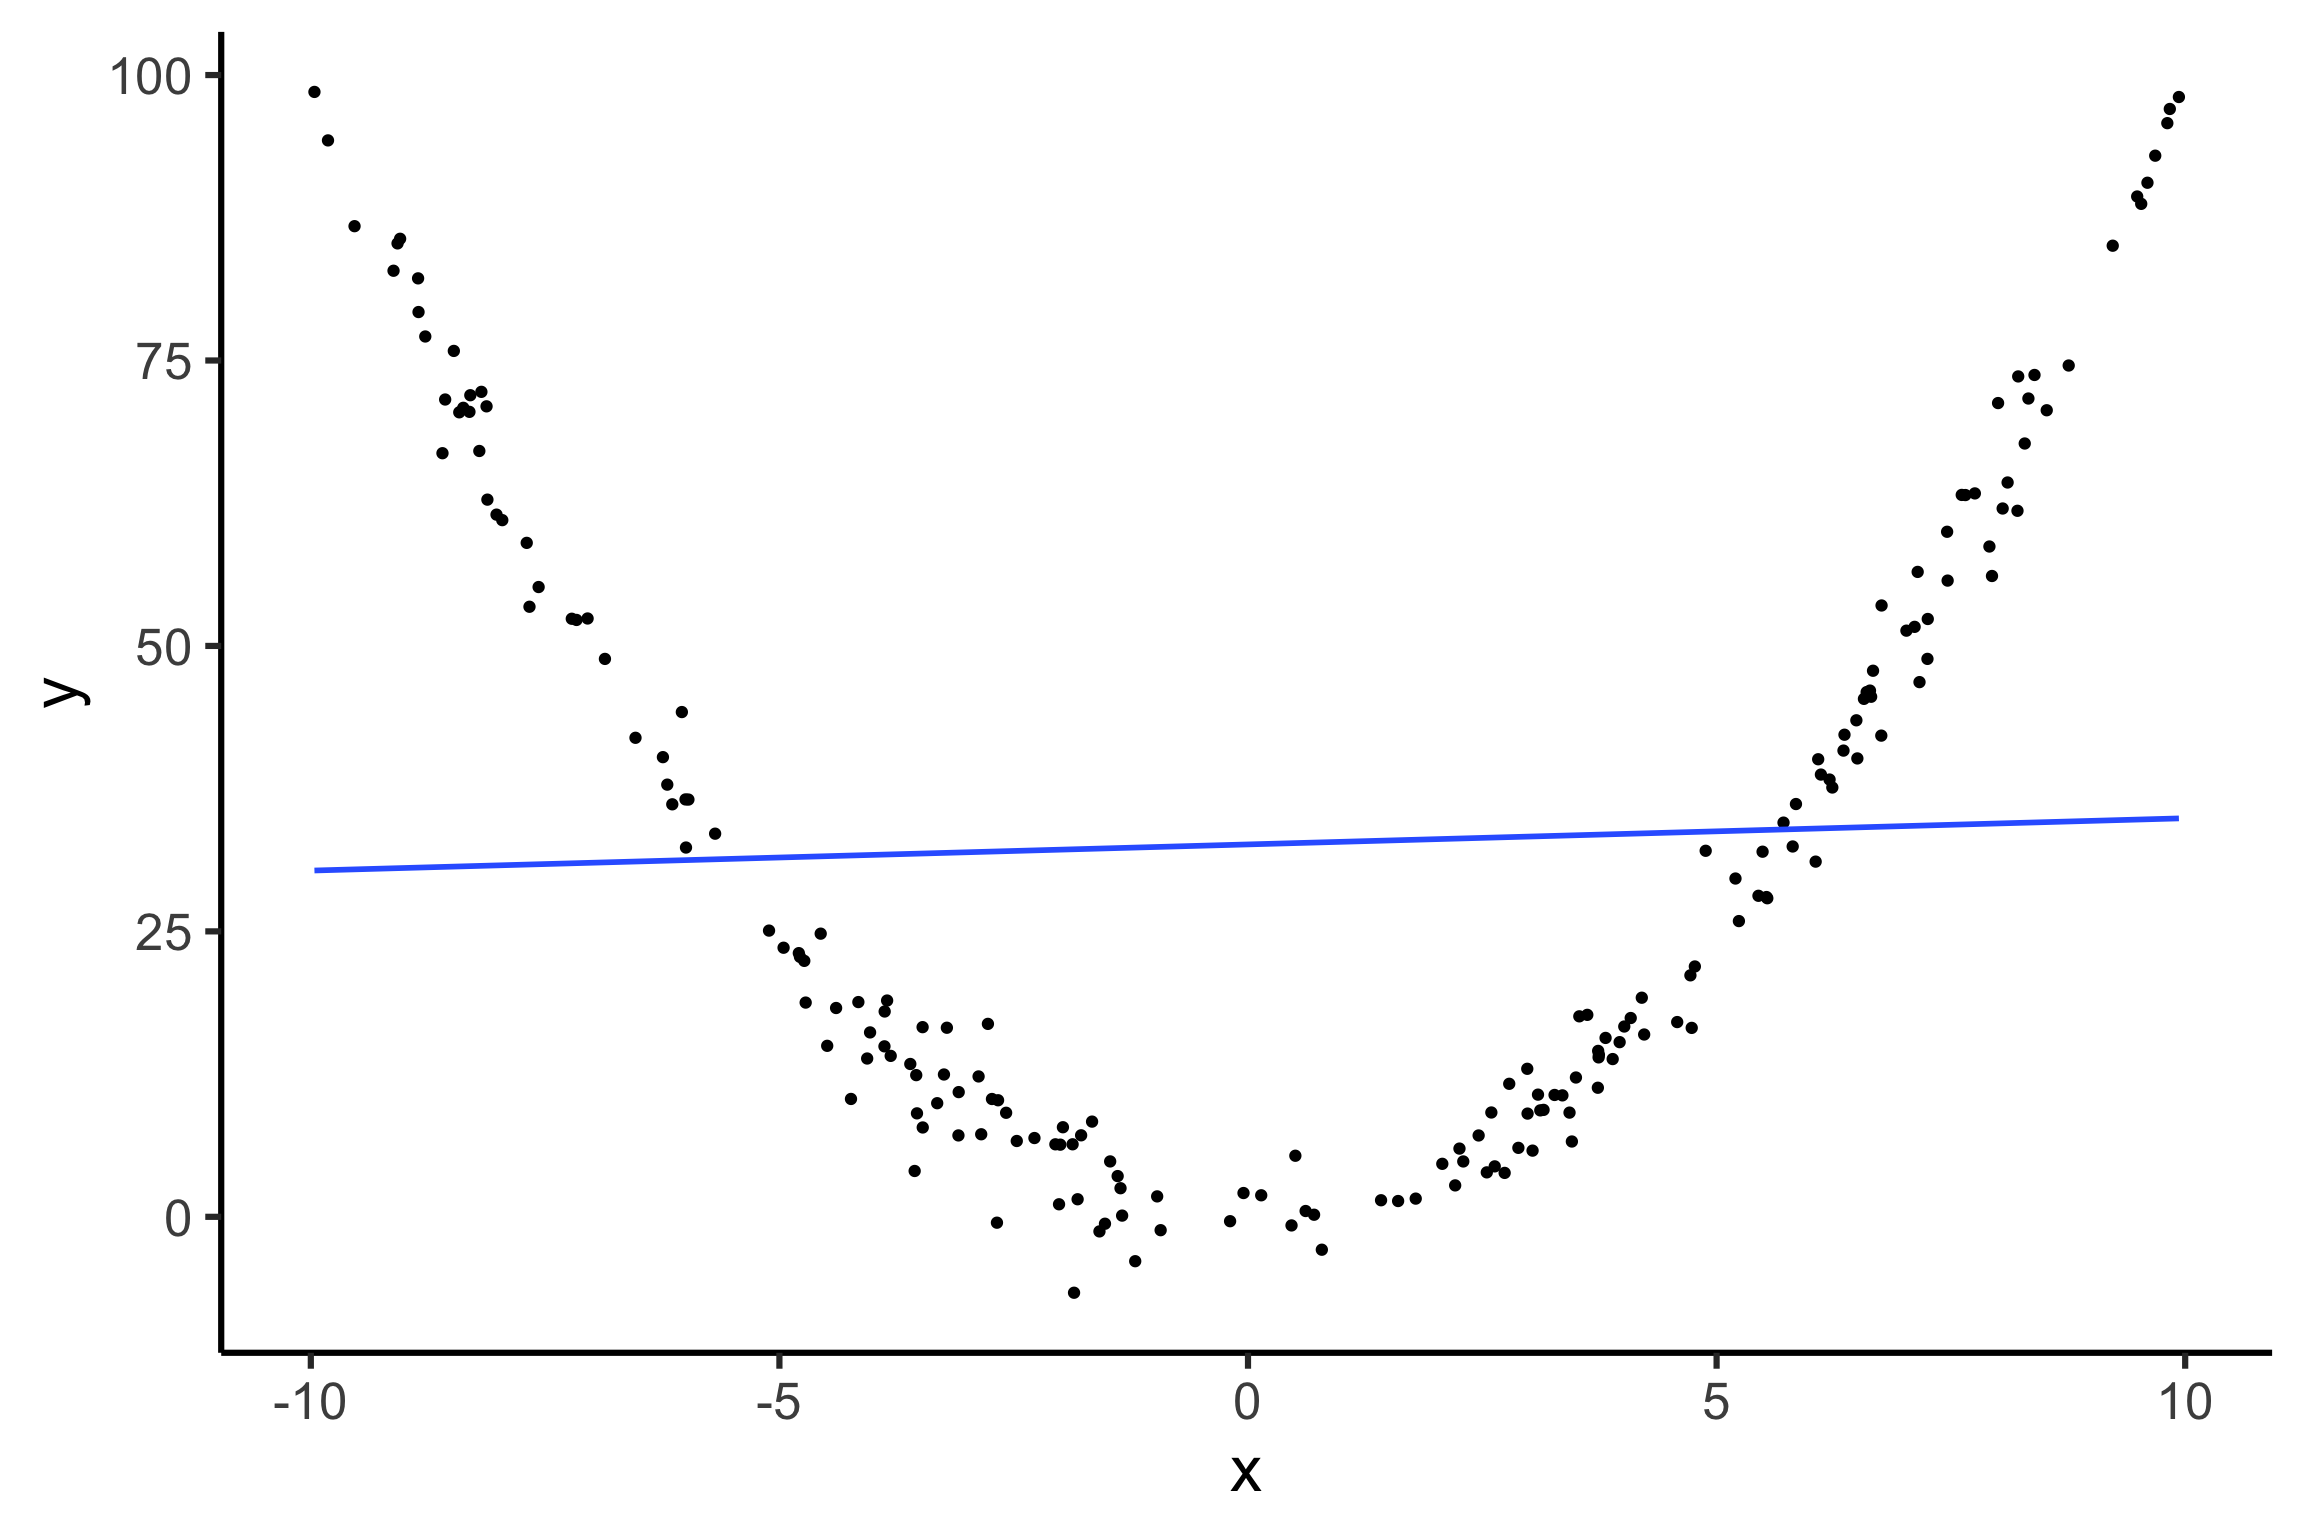
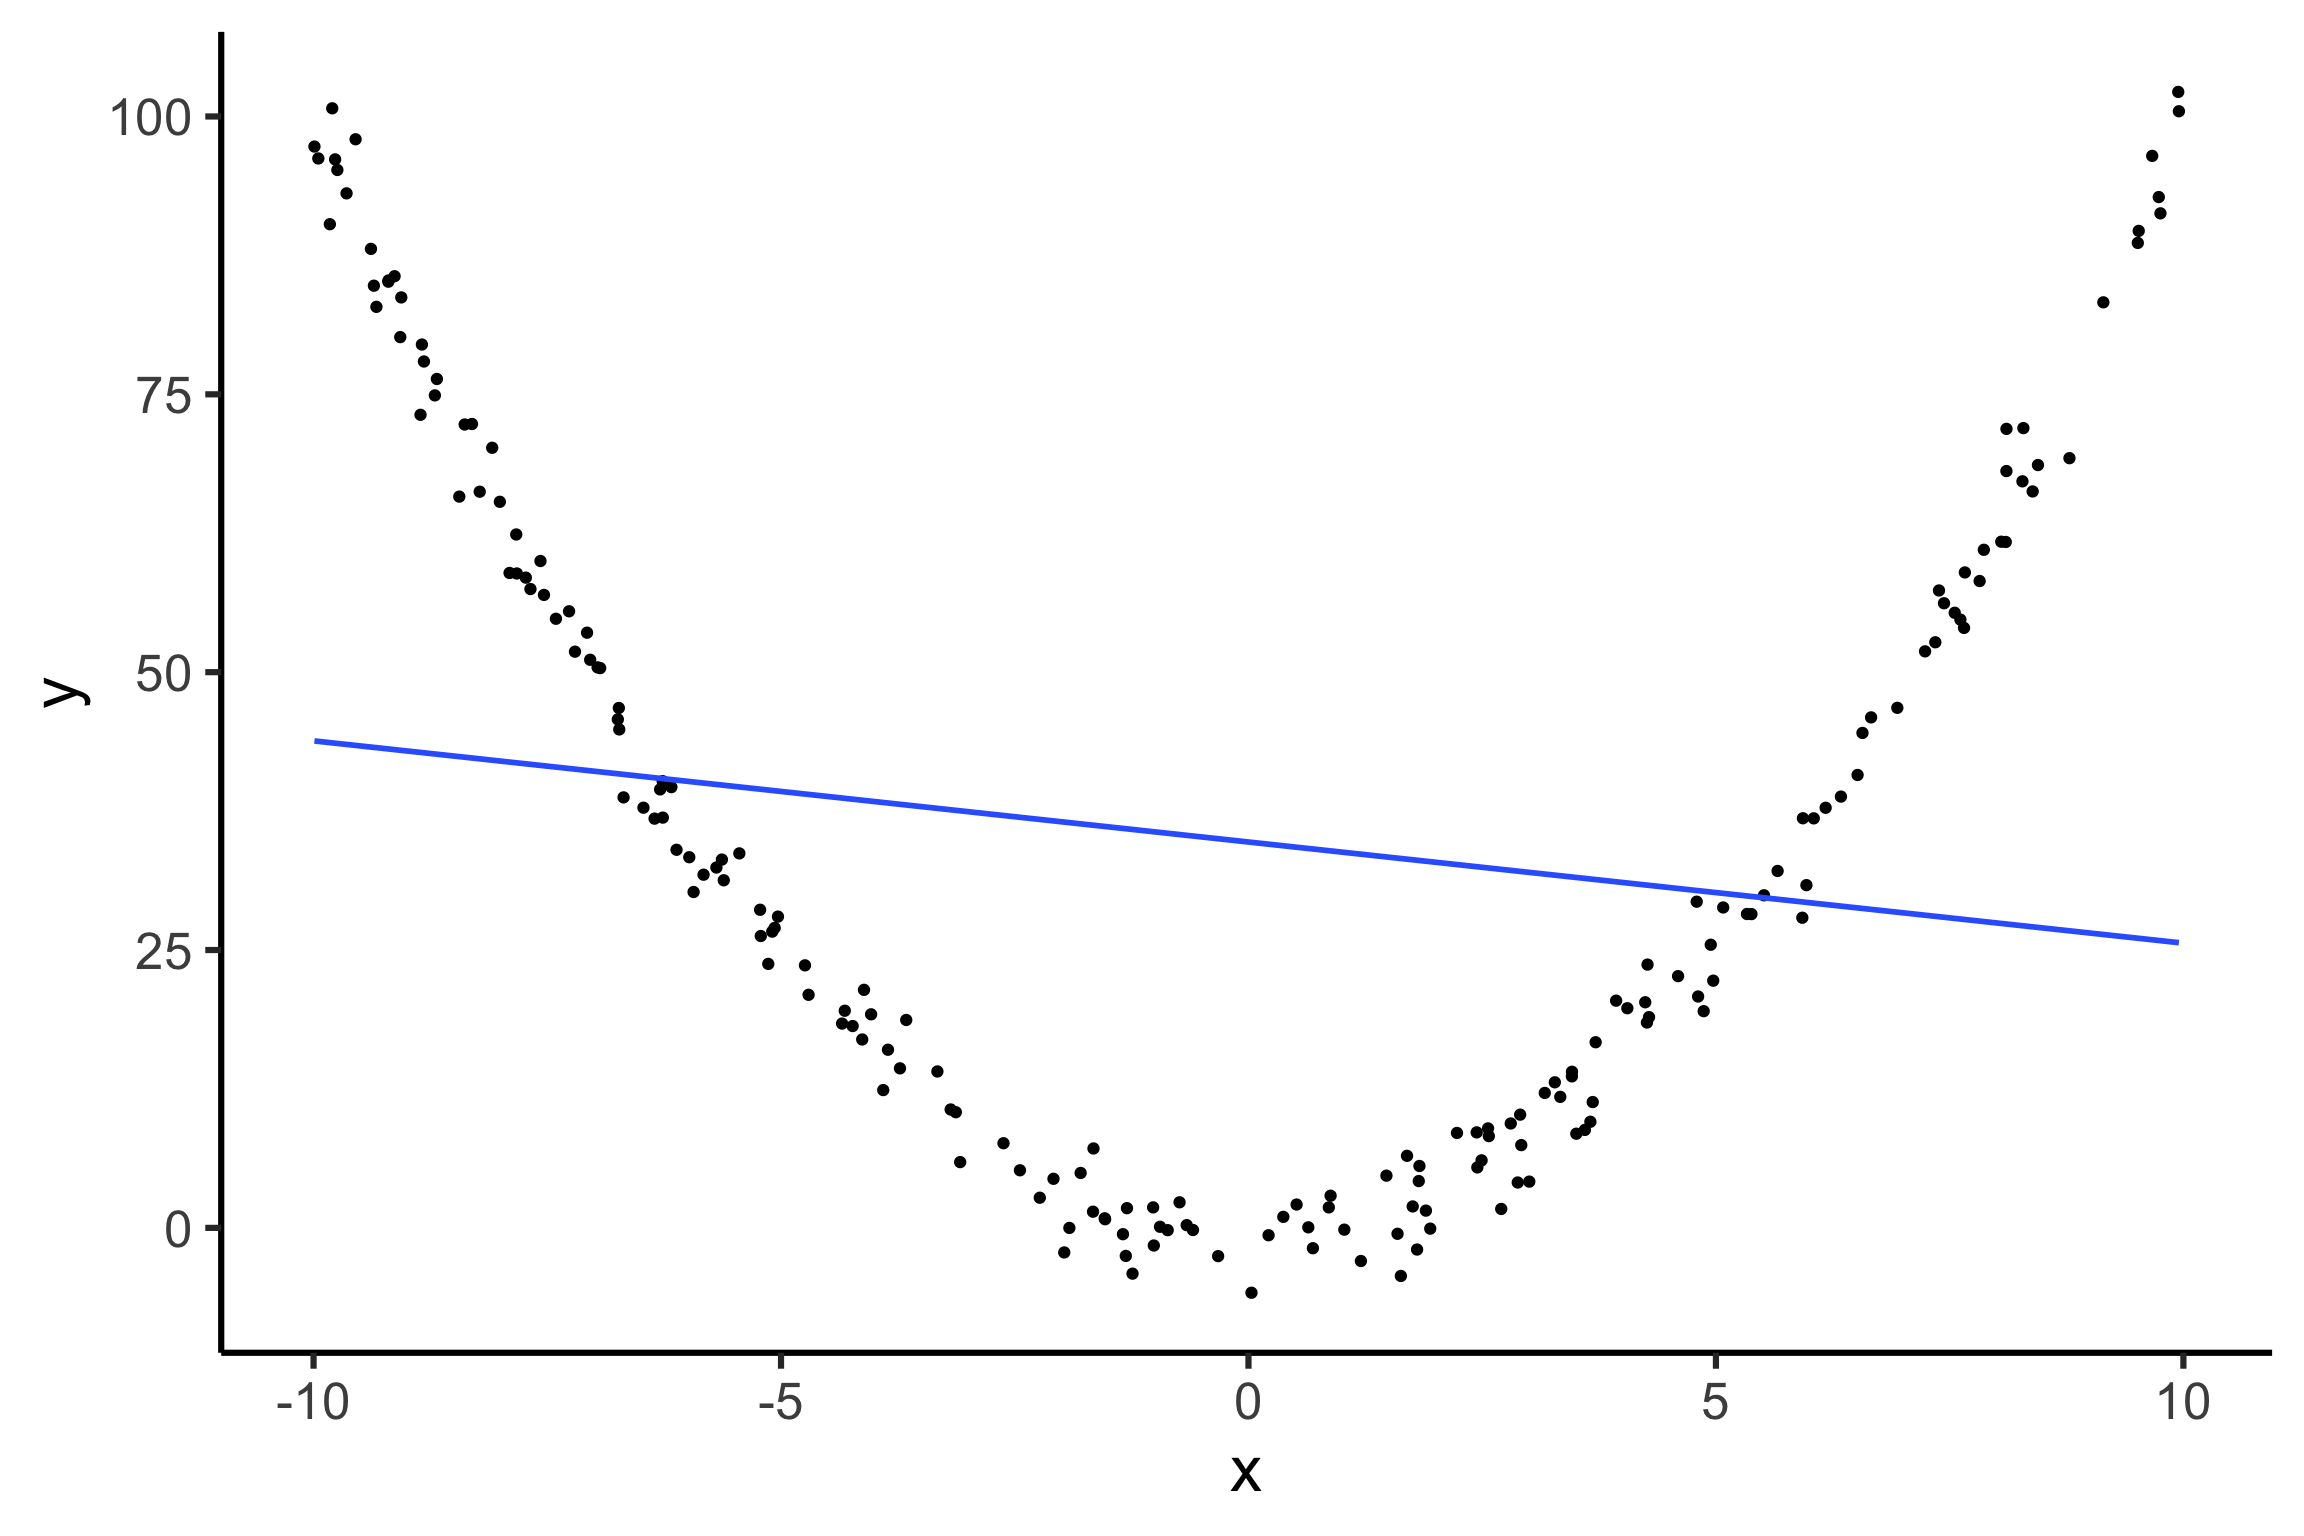
Built site for gh-pages

diff --git a/exercises/exercise02.html b/exercises/exercise02.html
@@ -420,8 +420,8 @@ eyJhdHRyIjp7ImNoZWNrIjp0cnVlLCJlZGl0Ijp0cnVlLCJldmFsIjp0cnVlLCJleGVyY2lzZSI6ImV4
 <ul>
 <li>Based on your answer to the previous question, what is the conclusion of the test using a significance level of 0.05?</li>
 </ul>
-<div id="radio_LTVDATAVAL" class="webex-radiogroup">
-<label><input type="radio" autocomplete="off" name="radio_LTVDATAVAL" value=""> <span>There is no evidence to suggest that iguanas shrink in size during the El Niño event.</span></label><label><input type="radio" autocomplete="off" name="radio_LTVDATAVAL" value=""> <span>There is evidence to suggest that iguanas grow in size during the El Niño event.</span></label><label><input type="radio" autocomplete="off" name="radio_LTVDATAVAL" value="answer"> <span>The data suggests that iguanas shrink in size during the El Niño event.</span></label>
+<div id="radio_PILHMCUZDO" class="webex-radiogroup">
+<label><input type="radio" autocomplete="off" name="radio_PILHMCUZDO" value=""> <span>There is no evidence to suggest that iguanas shrink in size during the El Niño event.</span></label><label><input type="radio" autocomplete="off" name="radio_PILHMCUZDO" value="answer"> <span>The data suggests that iguanas shrink in size during the El Niño event.</span></label><label><input type="radio" autocomplete="off" name="radio_PILHMCUZDO" value=""> <span>There is evidence to suggest that iguanas grow in size during the El Niño event.</span></label>
 </div>
 </section>
 <section id="exercise-2.1.4" class="level3">
@@ -538,8 +538,8 @@ eyJhdHRyIjp7ImNoZWNrIjp0cnVlLCJlZGl0Ijp0cnVlLCJldmFsIjp0cnVlLCJleGVyY2lzZSI6ImV4
 <ul>
 <li>Based on your answer to the previous question, what is the conclusion of the test using a significance level of 0.01?</li>
 </ul>
-<div id="radio_HMWMGKADLW" class="webex-radiogroup">
-<label><input type="radio" autocomplete="off" name="radio_HMWMGKADLW" value=""> <span>There is no evidence that the change in activation of mosquitos is different between drinking beer and water.</span></label><label><input type="radio" autocomplete="off" name="radio_HMWMGKADLW" value="answer"> <span>There is strong evidence to suggest that drinking beer attracts more mosquitos.</span></label><label><input type="radio" autocomplete="off" name="radio_HMWMGKADLW" value=""> <span>There is evidence to suggest that drinking water attracts more mosquitos.</span></label>
+<div id="radio_EERLWKOHQT" class="webex-radiogroup">
+<label><input type="radio" autocomplete="off" name="radio_EERLWKOHQT" value="answer"> <span>There is strong evidence to suggest that drinking beer attracts more mosquitos.</span></label><label><input type="radio" autocomplete="off" name="radio_EERLWKOHQT" value=""> <span>There is evidence to suggest that drinking water attracts more mosquitos.</span></label><label><input type="radio" autocomplete="off" name="radio_EERLWKOHQT" value=""> <span>There is no evidence that the change in activation of mosquitos is different between drinking beer and water.</span></label>
 </div>
 </section>
 </section>
@@ -581,12 +581,12 @@ eyJhdHRyIjp7ImNoZWNrIjp0cnVlLCJlZGl0Ijp0cnVlLCJldmFsIjp0cnVlLCJleGVyY2lzZSI6ImV4
 <ul>
 <li>Based on your answer to the previous question, what is the conclusion of the test using a significance level of 0.05?</li>
 </ul>
-<div id="radio_JBAKALLAGM" class="webex-radiogroup">
-<label><input type="radio" autocomplete="off" name="radio_JBAKALLAGM" value="answer"> <span>There is no evidence that the new pesticide is more effective than the standard one.</span></label><label><input type="radio" autocomplete="off" name="radio_JBAKALLAGM" value=""> <span>There is evidence to suggest that the new pesticide is less effective than the standard one.</span></label><label><input type="radio" autocomplete="off" name="radio_JBAKALLAGM" value=""> <span>There is strong evidence to suggest that the new pesticide is more effective than the standard one.</span></label>
+<div id="radio_URUSSPKJDY" class="webex-radiogroup">
+<label><input type="radio" autocomplete="off" name="radio_URUSSPKJDY" value=""> <span>There is strong evidence to suggest that the new pesticide is more effective than the standard one.</span></label><label><input type="radio" autocomplete="off" name="radio_URUSSPKJDY" value=""> <span>There is evidence to suggest that the new pesticide is less effective than the standard one.</span></label><label><input type="radio" autocomplete="off" name="radio_URUSSPKJDY" value="answer"> <span>There is no evidence that the new pesticide is more effective than the standard one.</span></label>
 </div>
 <p><br><br></p>
 <hr>
-<p>🎉 <em>Heh! </em> You’ve reached the end of this exercise! <em>You are great!</em> Proceed to …<br><br></p>
+<p>🎉 <em>Huzzah! </em> You’ve reached the end of this exercise! <em>You are ultimate!</em> Proceed to …<br><br></p>
 <p><a href="../slides/slide3.html" class="button-next"><i class="fas fa-caret-square-right"></i> next slide</a> <br><br></p>
 <p><a href="../exercises/exercise03.html" class="button-next"><i class="fas fa-caret-square-right"></i> next exercise</a></p>
 

diff --git a/slides/slide1.html b/slides/slide1.html
@@ -811,7 +811,7 @@ eyJhdHRyIjp7ImF1dG9ydW4iOnRydWUsImRlZmluZSI6WyJ4IiwibiIsInAiXSwiZWRpdCI6dHJ1ZSwi
 
 </div>
 <script type="webr-21-contents">
[2 lines of base64/hex data omitted]
 </script>
 </div>
 </div>

diff --git a/index.html b/index.html
@@ -594,7 +594,7 @@ Introductions
 </div>
 </a>
 </div>
-<div class="g-col-1" data-index="1" data-listing-date-sort="1739800800000" data-listing-file-modified-sort="1739843980511" data-listing-date-modified-sort="NaN" data-listing-reading-time-sort="17" data-listing-word-count-sort="3370">
+<div class="g-col-1" data-index="1" data-listing-date-sort="1739800800000" data-listing-file-modified-sort="1739844325283" data-listing-date-modified-sort="NaN" data-listing-reading-time-sort="17" data-listing-word-count-sort="3370">
 <a href="./slides/slide1.html" class="quarto-grid-link">
 <div class="quarto-grid-item card h-100 card-left">
 <p class="card-img-top">

diff --git a/exercises/exercise05.html b/exercises/exercise05.html
@@ -395,7 +395,7 @@ eyJhdHRyIjp7ImVkaXQiOnRydWUsImV2YWwiOnRydWUsImV4ZXJjaXNlIjoiZXgxMyJ9LCJjb2RlIjoi
 </div>
 <p><br><br></p>
 <hr>
-<p>🎉 <em>Hurrah! </em> You’ve reached the end of this exercise! <em>You are transcendent!</em> Proceed to …<br><br></p>
+<p>🎉 <em>Mmm! </em> You’ve reached the end of this exercise! <em>You are kryptonian!</em> Proceed to …<br><br></p>
 <p><a href="../slides/slide6.html" class="button-next"><i class="fas fa-caret-square-right"></i> next slide</a> <br><br></p>
 <p><a href="../exercises/exercise06.html" class="button-next"><i class="fas fa-caret-square-right"></i> next exercise</a></p>
 

diff --git a/exercises/exercise01.html b/exercises/exercise01.html
@@ -796,7 +796,7 @@ eyJhdHRyIjp7ImNoZWNrIjp0cnVlLCJlZGl0Ijp0cnVlLCJldmFsIjp0cnVlLCJleGVyY2lzZSI6ImV4
 </div>
 <p><br><br></p>
 <hr>
-<p>🎉 <em>Wee! </em> You’ve reached the end of this exercise! <em>You are funkadelic!</em> Proceed to …<br><br></p>
+<p>🎉 <em>Ahh! </em> You’ve reached the end of this exercise! <em>You are smashing!</em> Proceed to …<br><br></p>
 <p><a href="../slides/slide2.html" class="button-next"><i class="fas fa-caret-square-right"></i> next slide</a> <br><br></p>
 <p><a href="../exercises/exercise02.html" class="button-next"><i class="fas fa-caret-square-right"></i> next exercise</a></p>
 

diff --git a/exercises/exercise03.html b/exercises/exercise03.html
@@ -728,7 +728,7 @@ eyJhdHRyIjp7ImNoZWNrIjp0cnVlLCJlZGl0Ijp0cnVlLCJldmFsIjp0cnVlLCJleGVyY2lzZSI6ImV4
 </div>
 <p><br><br></p>
 <hr>
-<p>🎉 <em>Aye! </em> You’ve reached the end of this exercise! <em>You are swell!</em> Proceed to …<br><br></p>
+<p>🎉 <em>Wowie! </em> You’ve reached the end of this exercise! <em>You are classy!</em> Proceed to …<br><br></p>
 <p><a href="../slides/slide4.html" class="button-next"><i class="fas fa-caret-square-right"></i> next slide</a> <br><br></p>
 <p><a href="../exercises/exercise04.html" class="button-next"><i class="fas fa-caret-square-right"></i> next exercise</a></p>
 

diff --git a/exercises/exercise04.html b/exercises/exercise04.html
@@ -667,7 +667,7 @@ fit3 |&gt;
 </div>
 <p><br><br></p>
 <hr>
-<p>🎉 <em>Wowie! </em> You’ve reached the end of this exercise! <em>You are wicked!</em> Proceed to …<br><br></p>
+<p>🎉 <em>Ah! </em> You’ve reached the end of this exercise! <em>You are finest!</em> Proceed to …<br><br></p>
 <p><a href="../slides/slide5.html" class="button-next"><i class="fas fa-caret-square-right"></i> next slide</a> <br><br></p>
 <p><a href="../exercises/exercise05.html" class="button-next"><i class="fas fa-caret-square-right"></i> next exercise</a></p>
 

diff --git a/exercises/exercise06.html b/exercises/exercise06.html
@@ -644,7 +644,7 @@ eyJhdHRyIjp7ImNhcHRpb24iOiJFeGVyY2lzZSA2LjEwIiwiZWRpdCI6dHJ1ZSwiZXZhbCI6dHJ1ZSwi
 </div>
 <p><br><br></p>
 <hr>
-<p>🎉 <em>Ahh! </em> That concludes all of the exercises!</p>
+<p>🎉 <em>Hurray! </em> That concludes all of the exercises!</p>
 <div class="cell" data-autorun="true" data-caption="🥳">
 <div>
 <div id="webr-25" class="exercise-cell">

diff --git a/slides/slide3.html b/slides/slide3.html
@@ -452,7 +452,7 @@ eyJhdHRyIjp7ImVjaG8iOmZhbHNlLCJlZGl0IjpmYWxzZSwiZXZhbCI6dHJ1ZSwiZmlnLWhlaWdodCI6
 </div>
 </div>
 <ul>
-<li><span class="math inline">r = 0.0464094</span></li>
+<li><span class="math inline">r = -0.1766522</span></li>
 </ul>
 </div></div>
 </section>
